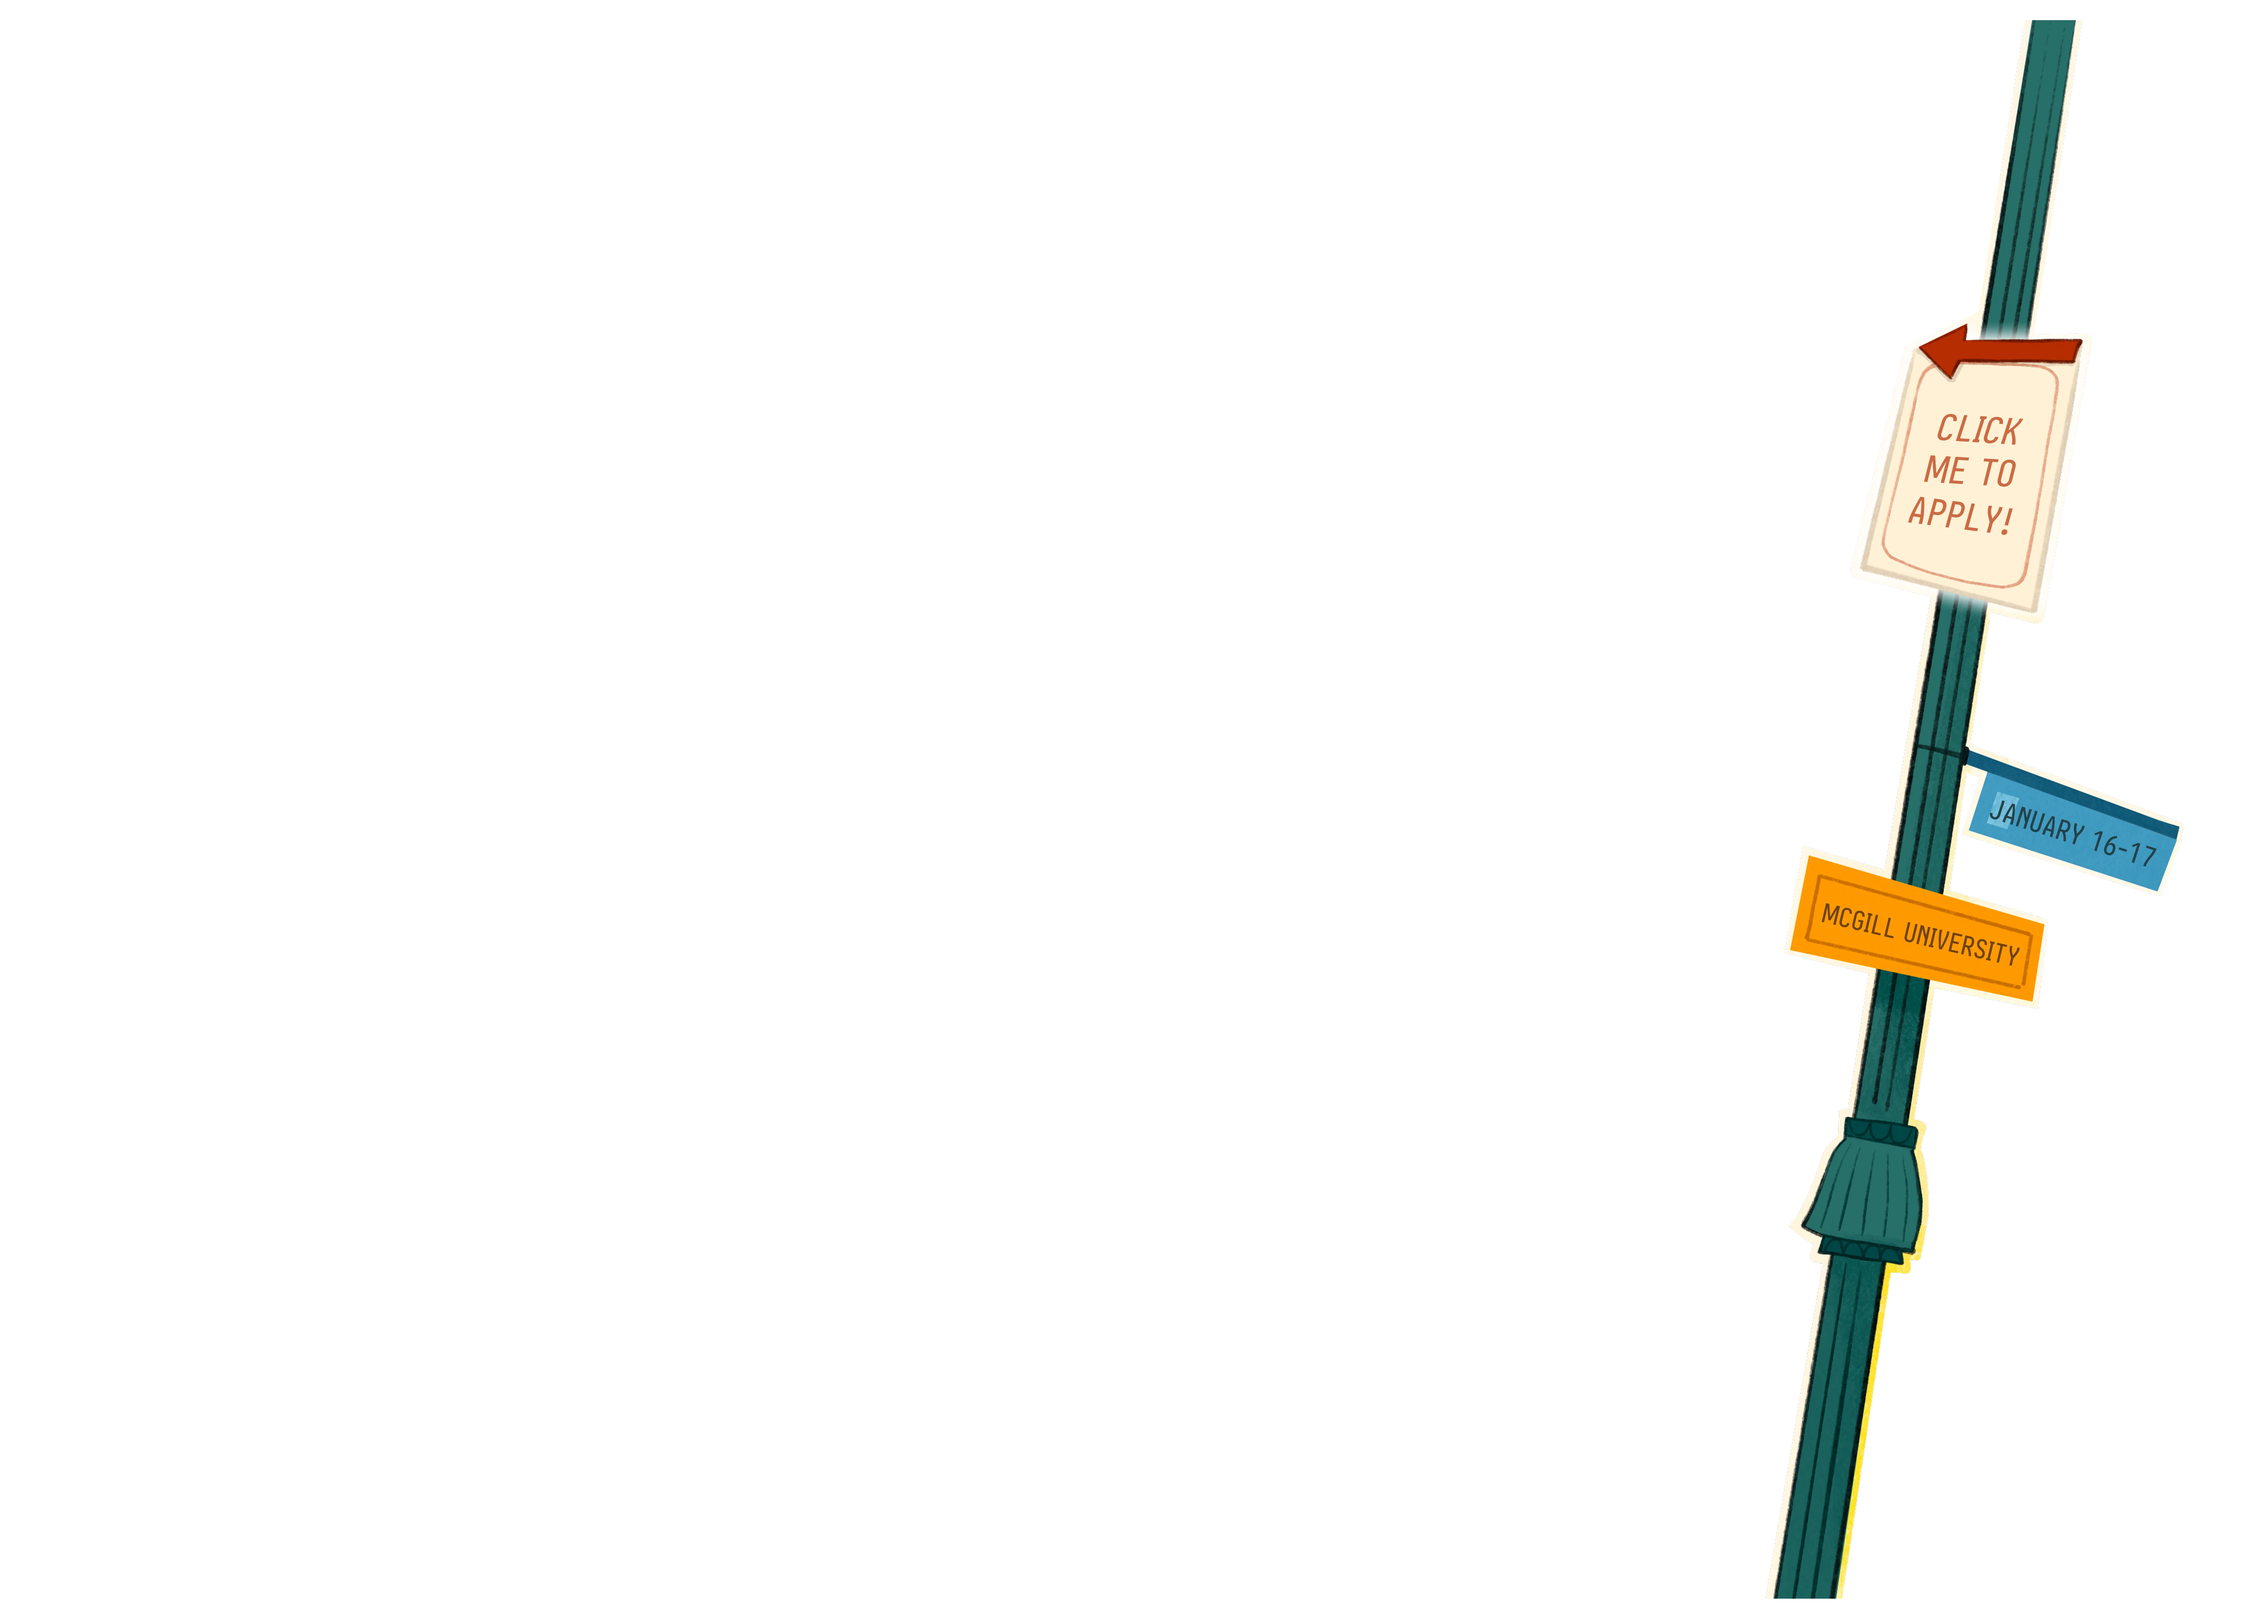
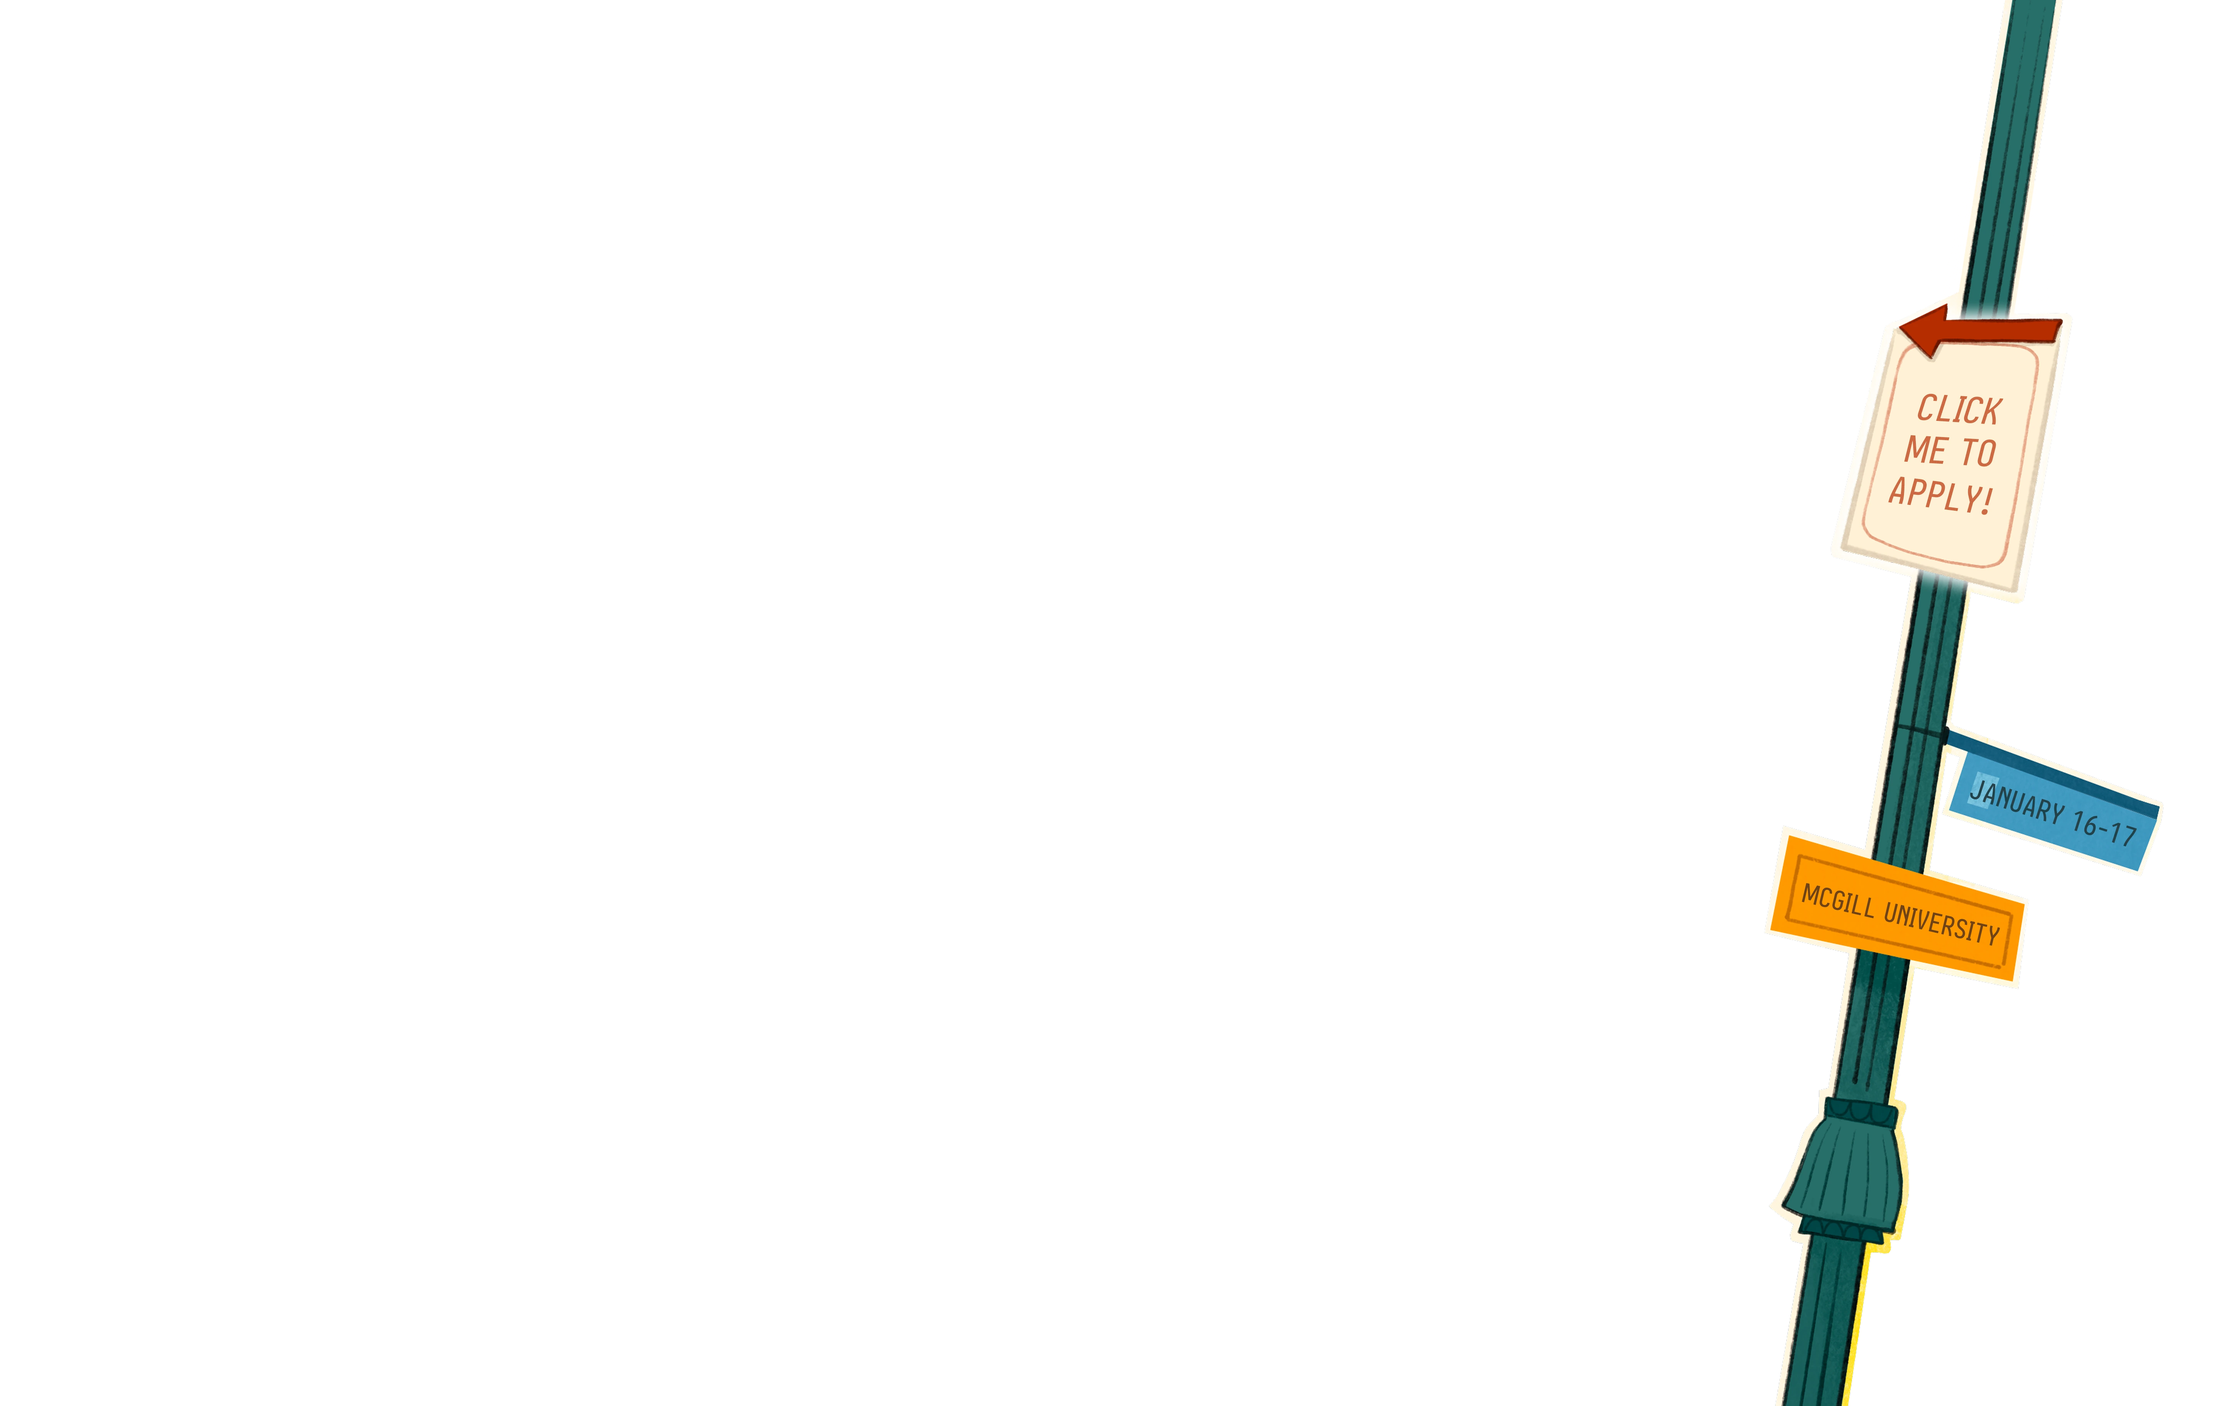
style: update the hero lamp design

Changed region(s): [[0.7812, 0.0, 0.9688, 1.0]]

diff --git a/src/components/Hero/HeroStyles.jsx b/src/components/Hero/HeroStyles.jsx
@@ -132,10 +132,10 @@ export const HeroStyles = styled.section.attrs({ className: "hero-stage" })`
 
   .invisible-apply {
     position: absolute;
-    left: 79.31%;
-    top: 22.37%;
-    width: 9.93%;
-    height: 18.97%;
+    left: 82.5%;
+    top: 21.38%;
+    width: 10.9%;
+    height: 21.7%;
     padding: 0;
     border: none;
     background: transparent;
